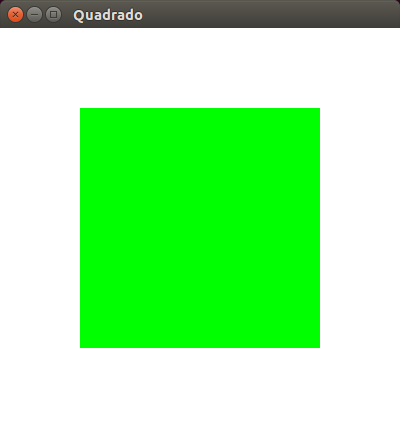
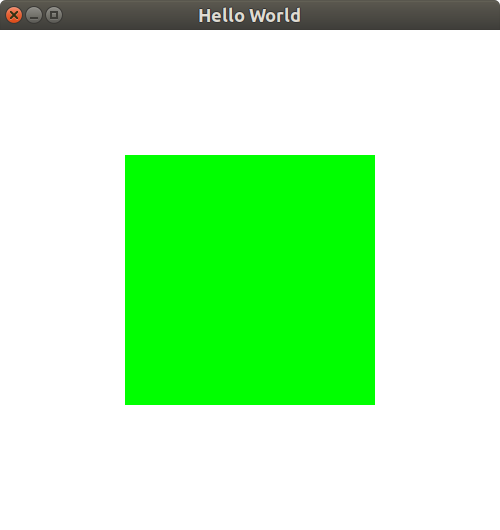
Updates links to quadrado for hello-world in the examples

Changed region(s): [[0.18, 0.243, 0.81, 0.8201], [0.0, 0.0, 1.0, 0.0911]]

diff --git a/classes/opengl-handson/README.md b/classes/opengl-handson/README.md
@@ -91,7 +91,7 @@ int main(int argc, char** argv)
    glutInitWindowSize(500, 500);
    glutInitWindowPosition(100, 100);
 
-   glutCreateWindow("Quadrado");
+   glutCreateWindow("Hello World");
 
    // Registra callbacks para alguns eventos
    glutDisplayFunc(desenhaMinhaCena);
@@ -107,7 +107,7 @@ int main(int argc, char** argv)
 }
 ```
 
-- Exemplo: [quadrado-callbacks](codeblocks:quadrado-callbacks/CodeBlocks/quadrado-callbacks.cbp)
+- Exemplo: [hello-world-callbacks](codeblocks:hello-world-callbacks/CodeBlocks/hello-world-callbacks.cbp)
 
 ---
 ## Apenas a função de desenho
@@ -215,7 +215,7 @@ glOrtho(left, right, bottom, top, near, far);
 - **Tudo que está dentro é desenhado**, tudo que está fora é descartado
 
 ---
-## O cubo de Visualização do quadrado.c
+## O cubo de Visualização do hello-world.c
 
 ![](../../images/glortho-square.png)
 
@@ -252,7 +252,7 @@ glOrtho(left, right, bottom, top, near, far);
   para projeção perspectiva)
 - Tudo o que colocarmos na nossa cena deve ser definido nesse sistema de
   coordenadas
-  - Em `quadrado.c`, nossa cena contém apenas os 4 vértices do quadrado
+  - Em `hello-world.c`, nossa cena contém apenas os 4 vértices do quadrado
 
 ---
 ## Sistema de coordenadas global (cont.)

diff --git a/classes/opengl/README.md b/classes/opengl/README.md
@@ -25,7 +25,7 @@
 #include <GL/glew.h>
 #include <GL/freeglut.h>
 
-void desenharMinhaCena() {
+void desenhaMinhaCena() {
     glClearColor(1.0, 1.0, 1.0, 1.0);
     glClear(GL_COLOR_BUFFER_BIT);
     glColor3f(0.0, 1.0, 0.0);
@@ -45,7 +45,7 @@ int main(int argc, char** argv) {
     glutInitDisplayMode(GLUT_SINGLE);
     glutInitWindowSize(500, 500);
     glutInitWindowPosition(100, 100);
-    glutCreateWindow("Quadrado");
+    glutCreateWindow("Hello World");
 
     glutDisplayFunc(desenharMinhaCena);
 
@@ -56,7 +56,7 @@ int main(int argc, char** argv) {
 
 ---
 <!-- {"layout": "centered", "state": "show-active-slide-and-previous"} -->
-Executando nosso [_Hello World_](codeblocks:quadrado/CodeBlocks/quadrado.cbp)...
+Executando nosso [_Hello World_](codeblocks:hello-world/CodeBlocks/hello-world.cbp)...
 
 
 ![Uma tela preta com um quadrado branco](../../images/opengl-hw-inicial.png) <!-- {style="border: 1px solid gray; border-radius: 3px;"} -->
@@ -737,7 +737,7 @@ int main(int argc, char** argv) {
     glutInitWindowSize(500, 500);
 
     // abre a janela
-    glutCreateWindow("Quadrado");
+    glutCreateWindow("Hello World");
 
     // registro de callbacks de eventos
     glutDisplayFunc(desenhaMinhaCena);
